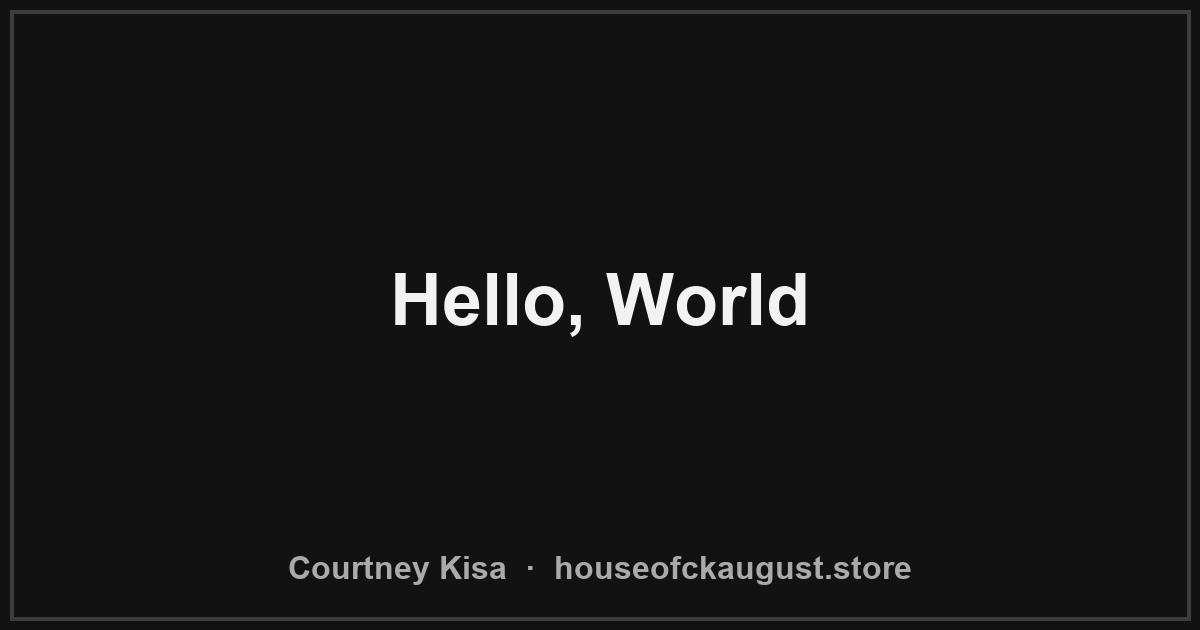
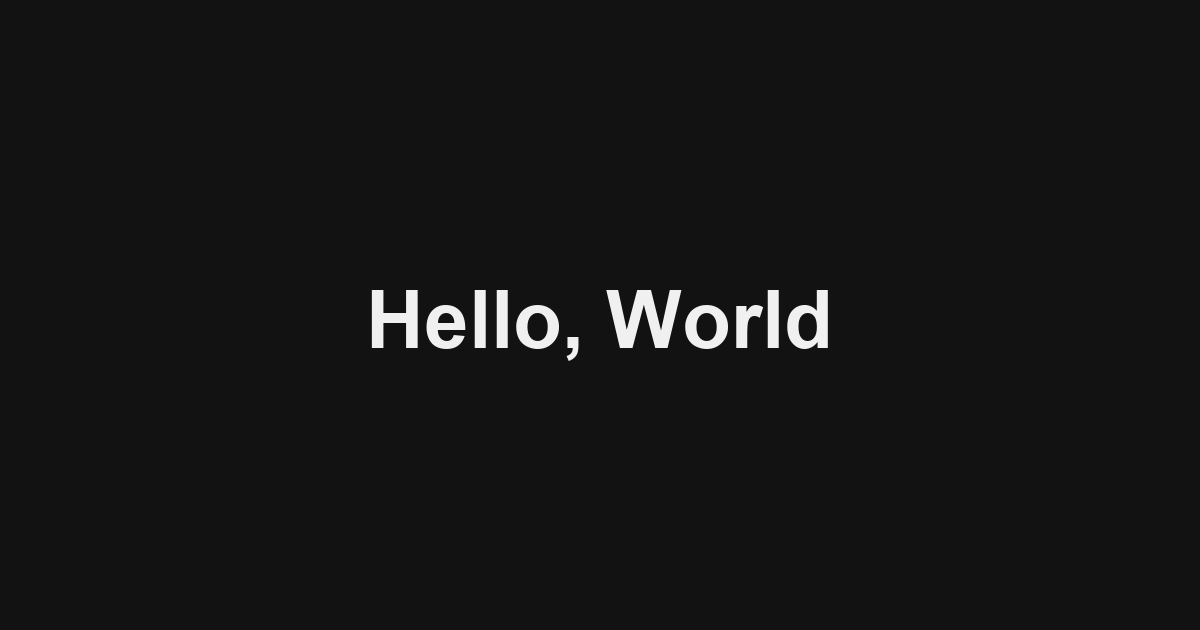
feat(blog): enable GFM (tables, task lists, strikethrough)

diff --git a/src/app/blog/[slug]/page.tsx b/src/app/blog/[slug]/page.tsx
@@ -3,6 +3,7 @@ import { getAllSlugs, getPostBySlug } from '../../../lib/posts';
 import { getSiteUrl } from '../../../lib/site';
 import { resolveOgImage } from '../../../lib/og';
 import { remark } from 'remark';
+import gfm from 'remark-gfm';
 import html from 'remark-html';
 
 export const revalidate = 60;
@@ -11,7 +12,6 @@ export async function generateStaticParams() {
   return getAllSlugs().map((slug) => ({ slug }));
 }
 
-// Next 16: params is a Promise
 type ParamsP = Promise<{ slug: string }>;
 type Props = { params: ParamsP };
 
@@ -21,8 +21,7 @@ export async function generateMetadata({ params }: Props) {
   if (!post) return {};
   const site = getSiteUrl();
   const url = `${site}/blog/${encodeURIComponent(slug)}`;
-  const og = resolveOgImage(slug, post); // <-- pick best image
-
+  const og = resolveOgImage(slug, post);
   return {
     title: post.title,
     description: post.excerpt || undefined,
@@ -49,10 +48,15 @@ export default async function BlogPostPage({ params }: Props) {
   const post = getPostBySlug(slug);
   if (!post) return notFound();
 
-  const processed = await remark().use(html).process(post.content);
-  const contentHtml = processed.toString();
-  const date = new Intl.DateTimeFormat('en-US', { dateStyle: 'medium' }).format(new Date(post.date));
+  const contentWithResolvedImages = post.content.replace(
+    /(\]\()\.\/(?!\/)/g,
+    `$1/blog/${slug}/`
+  );
 
+  const processed = await remark().use(gfm).use(html).process(contentWithResolvedImages);
+  const contentHtml = processed.toString();
+
+  const date = new Intl.DateTimeFormat('en-US', { dateStyle: 'medium' }).format(new Date(post.date));
   const site = getSiteUrl();
   const url = `${site}/blog/${encodeURIComponent(slug)}`;
   const jsonLd = {

diff --git a/scripts/gen_og.py b/scripts/gen_og.py
@@ -1,14 +1,11 @@
 import os, sys, textwrap, re
 from pathlib import Path
 
-# --- Config ---
-SITE_NAME = "Courtney Kisa"
-SITE_SUB  = (os.environ.get("NEXT_PUBLIC_SITE_URL") or "houseofckaugust.store").replace("https://","").replace("http://","").strip("/")
+# Minimal, clean OG images: title only on a dark background.
 
-# --- Pillow import (fail with a helpful message) ---
 try:
-    from PIL import Image, ImageDraw, ImageFont, ImageColor
-except Exception as e:
+    from PIL import Image, ImageDraw, ImageFont
+except Exception:
     print("ERROR: Pillow not installed. Run:  python3 -m pip install --user Pillow")
     sys.exit(1)
 
@@ -18,7 +15,6 @@ OUTDIR = ROOT / "public" / "blog"
 OUTDIR.mkdir(parents=True, exist_ok=True)
 
 def parse_frontmatter(md_path: Path):
-    """Very small front-matter parser: returns dict with at least title, slug."""
     slug = md_path.stem
     data = {"slug": slug, "title": slug}
     try:
@@ -28,7 +24,7 @@ def parse_frontmatter(md_path: Path):
     if not txt.startswith("---"):
         return data
     parts = txt.split("\n", 1)[1].split("\n---", 1)
-    if len(parts) < 2:  # malformed
+    if len(parts) < 2:
         return data
     fm = parts[0]
     for line in fm.splitlines():
@@ -40,44 +36,34 @@ def parse_frontmatter(md_path: Path):
         data[k] = v
     return data
 
-def load_font(size, fallback=True):
-    # Try common macOS fonts; fall back to default
-    candidates = [
+def load_font(size):
+    # Try common macOS fonts, fall back to default
+    for p in [
         "/System/Library/Fonts/Supplemental/Arial Bold.ttf",
         "/System/Library/Fonts/SFNS.ttf",
         "/System/Library/Fonts/Supplemental/Helvetica.ttc",
-    ]
-    for p in candidates:
+    ]:
         try:
             return ImageFont.truetype(p, size)
         except Exception:
             pass
     return ImageFont.load_default()
 
-def draw_og(title: str, out_path: Path):
+def draw_minimal(title: str, out_path: Path):
     W, H = 1200, 630
     bg = Image.new("RGB", (W, H), (18, 18, 18))
     d  = ImageDraw.Draw(bg)
 
-    # Title block
-    title_font = load_font(72)
-    lines = []
-    for line in textwrap.wrap(title, width=24):  # rough wrap
-        lines.append(line)
-    y = H//2 - (len(lines)*title_font.size)//2 - 20
+    title_font = load_font(80)
+    # conservative wrapping so title stays readable
+    lines = textwrap.wrap(title, width=24) or [title]
+    total_h = sum(title_font.size for _ in lines) + int((len(lines)-1) * title_font.size * 0.15)
+    y = (H - total_h) // 2
+
     for ln in lines:
         tw = d.textlength(ln, font=title_font)
-        d.text(((W - tw)//2, y), ln, fill=(242,242,242), font=title_font)
-        y += int(title_font.size*1.15)
-
-    # Footer line
-    sub_font = load_font(32)
-    footer = f"{SITE_NAME}  ·  {SITE_SUB}"
-    tw = d.textlength(footer, font=sub_font)
-    d.text(((W - tw)//2, H - 80), footer, fill=(170,170,170), font=sub_font)
-
-    # Simple border
-    d.rectangle([10,10,W-10,H-10], outline=(60,60,60), width=4)
+        d.text(((W - tw)//2, y), ln, fill=(240,240,240), font=title_font)
+        y += int(title_font.size * 1.15)
 
     out_path.parent.mkdir(parents=True, exist_ok=True)
     bg.save(out_path)
@@ -94,9 +80,9 @@ def gen_for_slug(slug: str, force=False):
     title = fm.get("title") or slug
     out = OUTDIR / slug / "og.png"
     if out.exists() and not force:
-        print(f"exists: {out} (use --force to overwrite)")
+        print(f"exists: {out.relative_to(ROOT)} (use --force to overwrite)")
         return
-    path = draw_og(title, out)
+    path = draw_minimal(title, out)
     print(f"wrote: {path.relative_to(ROOT)}")
 
 def all_slugs():
@@ -106,7 +92,7 @@ def all_slugs():
 
 def main():
     import argparse
-    ap = argparse.ArgumentParser(description="Generate per-post OG images")
+    ap = argparse.ArgumentParser(description="Generate minimal per-post OG images")
     ap.add_argument("--slug", help="generate only for this slug")
     ap.add_argument("--all", action="store_true", help="generate for all posts")
     ap.add_argument("--force", action="store_true", help="overwrite existing images")

diff --git a/content/posts/hello-world.md b/content/posts/hello-world.md
@@ -5,6 +5,8 @@ excerpt: "First post to test the blog pipeline."
 tags: ["intro","nextjs","vercel"]
 ---
 
+![Sample photo](./photo.jpg)
+
 Welcome to my blog! This is a **markdown** post rendered with *remark*.
 
 - bold, italics, and `inline code`
@@ -13,4 +15,18 @@ Welcome to my blog! This is a **markdown** post rendered with *remark*.
 ```ts
 console.log("hello blog");
 
+Save (**Ctrl+O**, **Enter**) and exit (**Ctrl+X**).
+
+## 2) Clear cache & restart dev (avoids any stale render)
+```bash
+pkill -f "next dev" || true
+rm -rf .next
+npm run dev
+- [x] task one
+- [ ] task two
+
+| Col A | Col B |
+|------:|:------|
+|  123  |  left |
+| ~~strike~~ | **bold** |
 
